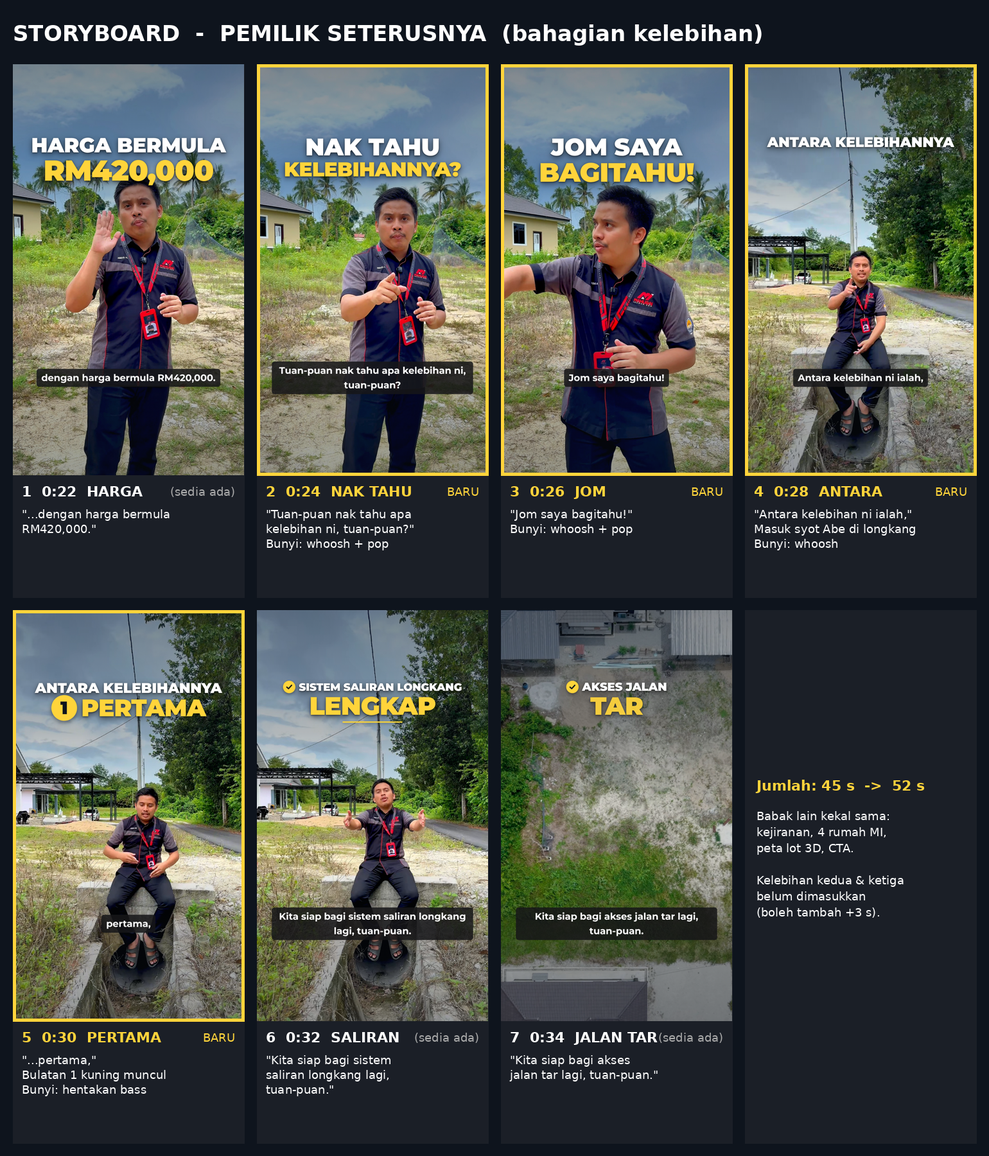
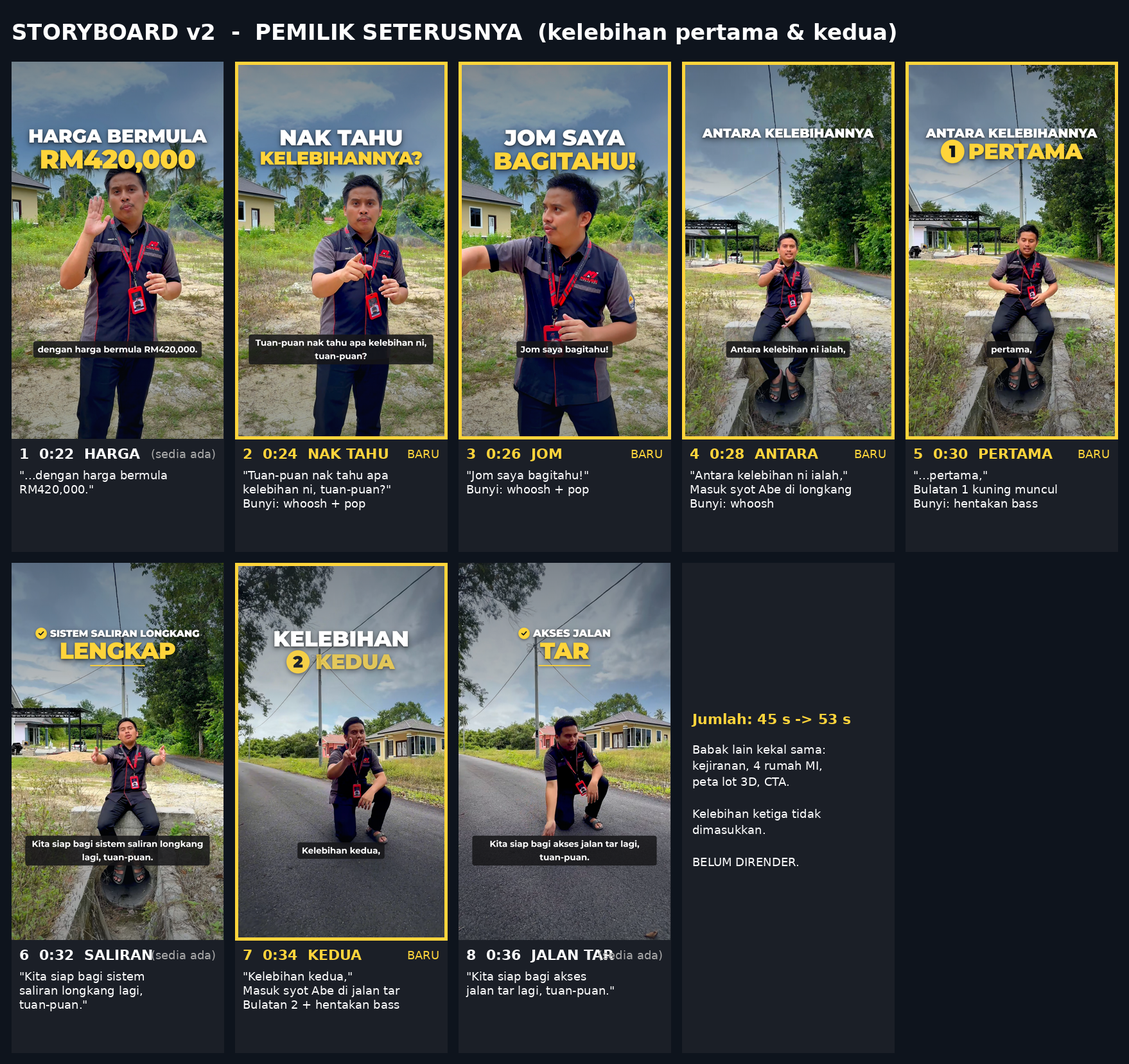
pemilik-seterusnya: draft adds 'kelebihan kedua'; storyboard v2 (not rendered)
Claude-Session: https://claude.ai/code/session_015oQrjsfk9qQfyKJ1FJDmB9

diff --git a/pemilik-seterusnya/compositions/gfx.html b/pemilik-seterusnya/compositions/gfx.html
@@ -28,8 +28,8 @@
       background: rgba(22,22,24,.86); padding: 8px 22px; border-radius: 12px; -webkit-box-decoration-break: clone; box-decoration-break: clone; }
     .cue b { color: #FFFFFF; font-weight: 700; }
   </style>
-  <div id="root" data-composition-id="gfx" data-width="1080" data-height="1920" data-duration="52.0">
-    <div class="clip scn3" id="s-end" data-start="46.72" data-duration="1.72">
+  <div id="root" data-composition-id="gfx" data-width="1080" data-height="1920" data-duration="53.38">
+    <div class="clip scn3" id="s-end" data-start="48.1" data-duration="1.72">
       <div class="tilt" id="e-tilt"><img src="assets/img/lot-top.jpg" alt="" />
         <svg class="lotsvg" viewBox="0 0 1080 1920" width="1080" height="1920"><polygon class="shadow" points="335,753 738,753 738,1148 335,1148" fill="#000" fill-opacity=".35"/></svg>
         <div class="extw" id="e-ext"><svg class="lotsvg" viewBox="0 0 1080 1920" width="1080" height="1920" style="transform: translateZ(4px)"><polygon points="335,753 738,753 738,1148 335,1148" fill="#FFD43B" fill-opacity="0.07" stroke="#FFD43B" stroke-opacity="0.35" stroke-width="2"/></svg><svg class="lotsvg" viewBox="0 0 1080 1920" width="1080" height="1920" style="transform: translateZ(9px)"><polygon points="335,753 738,753 738,1148 335,1148" fill="#FFD43B" fill-opacity="0.07" stroke="#FFD43B" stroke-opacity="0.35" stroke-width="2"/></svg><svg class="lotsvg" viewBox="0 0 1080 1920" width="1080" height="1920" style="transform: translateZ(14px)"><polygon points="335,753 738,753 738,1148 335,1148" fill="#FFD43B" fill-opacity="0.07" stroke="#FFD43B" stroke-opacity="0.35" stroke-width="2"/></svg><svg class="lotsvg" viewBox="0 0 1080 1920" width="1080" height="1920" style="transform: translateZ(19px)"><polygon points="335,753 738,753 738,1148 335,1148" fill="#FFD43B" fill-opacity="0.07" stroke="#FFD43B" stroke-opacity="0.35" stroke-width="2"/></svg><svg class="lotsvg" viewBox="0 0 1080 1920" width="1080" height="1920" style="transform: translateZ(24px)"><polygon points="335,753 738,753 738,1148 335,1148" fill="#FFD43B" fill-opacity="0.07" stroke="#FFD43B" stroke-opacity="0.35" stroke-width="2"/></svg><svg class="lotsvg" viewBox="0 0 1080 1920" width="1080" height="1920" style="transform: translateZ(29px)"><polygon points="335,753 738,753 738,1148 335,1148" fill="#FFD43B" fill-opacity="0.07" stroke="#FFD43B" stroke-opacity="0.35" stroke-width="2"/></svg></div>
@@ -61,12 +61,15 @@
     <div class="grp clip" id="g4e" data-start="27.77" data-duration="3.87" style="top:330px">
       <div class="hw" id="g4e-w" style="font-size:66px">ANTARA KELEBIHANNYA</div>
       <div class="numw"><div class="num" id="g4e-n">1</div><div class="hy" id="g4e-y" style="font-size:112px">PERTAMA</div></div></div>
+    <div class="grp clip" id="g4f" data-start="34.06" data-duration="1.28" style="top:330px">
+      <div class="hw" id="g4f-w" style="font-size:112px">KELEBIHAN</div>
+      <div class="numw"><div class="num" id="g4f-n">2</div><div class="hy" id="g4f-y" style="font-size:112px">KEDUA</div></div></div>
     <div class="grp clip" id="g5a" data-start="31.71" data-duration="1.83" style="top:330px"><div class="ckh"><div class="ckb" id="g5a-c"><svg viewBox="0 0 24 24" width="38" height="38" fill="none" stroke="#0E141D" stroke-width="3.6" stroke-linecap="round" stroke-linejoin="round"><path class="ck" d="M5 12.5 10 17 19 7"/></svg></div><div class="hw" id="g5a-w" style="font-size:50px">SISTEM SALIRAN LONGKANG</div></div><div class="hy" id="g5a-y" style="font-size:118px">LENGKAP</div><div class="rule" id="g5a-r"></div></div>
-    <div class="grp clip" id="g5b" data-start="34.76" data-duration="1.7" style="top:330px"><div class="ckh"><div class="ckb" id="g5b-c"><svg viewBox="0 0 24 24" width="38" height="38" fill="none" stroke="#0E141D" stroke-width="3.6" stroke-linecap="round" stroke-linejoin="round"><path class="ck" d="M5 12.5 10 17 19 7"/></svg></div><div class="hw" id="g5b-w" style="font-size:54px">AKSES JALAN</div></div><div class="hy" id="g5b-y" style="font-size:118px">TAR</div><div class="rule" id="g5b-r"></div></div>
-    <div class="grp clip" id="g6" data-start="37.46" data-duration="1.3" style="top:330px"><div class="hw" id="g6-w" style="font-size:112px">KEJIRANAN</div><div class="hy" id="g6-y" style="font-size:124px">SEDIA ADA</div></div>
-    <div class="grp clip" id="g6b" data-start="38.92" data-duration="4.44" style="top:330px"><div class="hw" id="g6b-w" style="font-size:66px">4 BUAH RUMAH DIBINA</div><div class="hy" id="g6b-y" style="font-size:81px">MAHLIGAI IDAMAN</div></div>
-    <div class="grp clip" id="g7" data-start="46.92" data-duration="1.52" style="top:330px"><div class="hw" id="g7-w" style="font-size:96px">ADAKAH ANDA</div><div class="hy" id="g7-y" style="font-size:64px">PEMILIK SETERUSNYA?</div></div>
-    <div class="grp clip" id="g8" data-start="48.5" data-duration="3.5" style="top:330px"><div class="hw" id="g8-w" style="font-size:112px">BERMINAT?</div><div class="hy" id="g8-y" style="font-size:76px">PM ABE SEKARANG!</div><div class="rule" id="g8r"></div></div>
+    <div class="grp clip" id="g5b" data-start="36.14" data-duration="1.7" style="top:330px"><div class="ckh"><div class="ckb" id="g5b-c"><svg viewBox="0 0 24 24" width="38" height="38" fill="none" stroke="#0E141D" stroke-width="3.6" stroke-linecap="round" stroke-linejoin="round"><path class="ck" d="M5 12.5 10 17 19 7"/></svg></div><div class="hw" id="g5b-w" style="font-size:54px">AKSES JALAN</div></div><div class="hy" id="g5b-y" style="font-size:118px">TAR</div><div class="rule" id="g5b-r"></div></div>
+    <div class="grp clip" id="g6" data-start="38.84" data-duration="1.3" style="top:330px"><div class="hw" id="g6-w" style="font-size:112px">KEJIRANAN</div><div class="hy" id="g6-y" style="font-size:124px">SEDIA ADA</div></div>
+    <div class="grp clip" id="g6b" data-start="40.3" data-duration="4.44" style="top:330px"><div class="hw" id="g6b-w" style="font-size:66px">4 BUAH RUMAH DIBINA</div><div class="hy" id="g6b-y" style="font-size:81px">MAHLIGAI IDAMAN</div></div>
+    <div class="grp clip" id="g7" data-start="48.3" data-duration="1.52" style="top:330px"><div class="hw" id="g7-w" style="font-size:96px">ADAKAH ANDA</div><div class="hy" id="g7-y" style="font-size:64px">PEMILIK SETERUSNYA?</div></div>
+    <div class="grp clip" id="g8" data-start="49.88" data-duration="3.5" style="top:330px"><div class="hw" id="g8-w" style="font-size:112px">BERMINAT?</div><div class="hy" id="g8-y" style="font-size:76px">PM ABE SEKARANG!</div><div class="rule" id="g8r"></div></div>
     <div class="subs" id="subs">
       <div class="cue clip" id="cue0" data-start="0.0" data-duration="2.86"><span>Tuan-puan, saya nak cari seorang je lagi <b>pembeli</b></span></div>
       <div class="cue clip" id="cue1" data-start="2.86" data-duration="2.69"><span>untuk bina rumah di atas tanah kita ni.</span></div>
@@ -80,14 +83,15 @@
       <div class="cue clip" id="cue9" data-start="25.94" data-duration="1.78"><span>Jom saya bagitahu!</span></div>
       <div class="cue clip" id="cue10" data-start="27.72" data-duration="2.0"><span>Antara kelebihan ni ialah,</span></div>
       <div class="cue clip" id="cue11" data-start="29.72" data-duration="1.24"><span><b>pertama</b>,</span></div>
-      <div class="cue clip" id="cue12" data-start="30.96" data-duration="2.98"><span>Kita siap bagi <b>sistem saliran longkang</b> lagi, tuan-puan.</span></div>
-      <div class="cue clip" id="cue13" data-start="33.94" data-duration="2.53"><span>Kita siap bagi <b>akses jalan tar</b> lagi, tuan-puan.</span></div>
-      <div class="cue clip" id="cue14" data-start="36.47" data-duration="2.29"><span>Tanah ni dah ada <b>kejiranan</b>, tuan-puan.</span></div>
-      <div class="cue clip" id="cue15" data-start="38.76" data-duration="2.34"><span>Keempat-empat bijik rumah ni, tuan-puan,</span></div>
-      <div class="cue clip" id="cue16" data-start="41.1" data-duration="2.23"><span>ialah hasil kerja <b>Mahligai Idaman</b>.</span></div>
-      <div class="cue clip" id="cue17" data-start="43.33" data-duration="3.61"><span>Jadi kami nak cari <b>sebijik lagi</b> untuk dibina dekat sini.</span></div>
-      <div class="cue clip" id="cue18" data-start="46.94" data-duration="1.51"><span>Adakah anda <b>pemiliknya</b>?</span></div>
-      <div class="cue clip" id="cue19" data-start="48.45" data-duration="3.55"><span>Siapa berminat, boleh <b>PM Abe sekarang</b>!</span></div>
+      <div class="cue clip" id="cue12" data-start="30.96" data-duration="3.12"><span>Kita siap bagi <b>sistem saliran longkang</b> lagi, tuan-puan.</span></div>
+      <div class="cue clip" id="cue13" data-start="34.08" data-duration="1.24"><span>Kelebihan <b>kedua</b>,</span></div>
+      <div class="cue clip" id="cue14" data-start="35.32" data-duration="2.53"><span>Kita siap bagi <b>akses jalan tar</b> lagi, tuan-puan.</span></div>
+      <div class="cue clip" id="cue15" data-start="37.85" data-duration="2.29"><span>Tanah ni dah ada <b>kejiranan</b>, tuan-puan.</span></div>
+      <div class="cue clip" id="cue16" data-start="40.14" data-duration="2.34"><span>Keempat-empat bijik rumah ni, tuan-puan,</span></div>
+      <div class="cue clip" id="cue17" data-start="42.48" data-duration="2.23"><span>ialah hasil kerja <b>Mahligai Idaman</b>.</span></div>
+      <div class="cue clip" id="cue18" data-start="44.71" data-duration="3.61"><span>Jadi kami nak cari <b>sebijik lagi</b> untuk dibina dekat sini.</span></div>
+      <div class="cue clip" id="cue19" data-start="48.32" data-duration="1.51"><span>Adakah anda <b>pemiliknya</b>?</span></div>
+      <div class="cue clip" id="cue20" data-start="49.83" data-duration="3.55"><span>Siapa berminat, boleh <b>PM Abe sekarang</b>!</span></div>
     </div>
   </div>
   <script>
@@ -142,6 +146,12 @@
     tl.fromTo("#g4e-n", { opacity: 0, scale: 0.86 }, { opacity: 1, y: 0, scale: 1, duration: 0.45, ease: "power3.out" }, 29.77);
     tl.fromTo("#g4e-y", { opacity: 0, scale: 0.86 }, { opacity: 1, y: 0, scale: 1, duration: 0.5, ease: "power3.out" }, 29.84);
     tl.to("#g4e", { opacity: 0, y: -14, duration: 0.25, ease: "power2.in" }, 31.39);
+    tl.fromTo("#g4f-w", { opacity: 0, y: 28 }, { opacity: 1, y: 0, scale: 1, duration: 0.5, ease: "power3.out" }, 34.06);
+    tl.set("#g4f-n", { opacity: 0 }, 0);
+    tl.set("#g4f-y", { opacity: 0 }, 0);
+    tl.fromTo("#g4f-n", { opacity: 0, scale: 0.86 }, { opacity: 1, y: 0, scale: 1, duration: 0.4, ease: "power3.out" }, 34.78);
+    tl.fromTo("#g4f-y", { opacity: 0, scale: 0.86 }, { opacity: 1, y: 0, scale: 1, duration: 0.4, ease: "power3.out" }, 34.84);
+    tl.to("#g4f", { opacity: 0, y: -14, duration: 0.2, ease: "power2.in" }, 35.14);
     tl.fromTo("#g5a-w", { opacity: 0, y: 28 }, { opacity: 1, y: 0, scale: 1, duration: 0.5, ease: "power3.out" }, 31.71);
     tl.fromTo("#g5a-c", { opacity: 0, scale: 0.86 }, { opacity: 1, y: 0, scale: 1, duration: 0.4, ease: "power3.out" }, 31.71);
     tl.fromTo("#g5a-c .ck", { strokeDasharray: 30, strokeDashoffset: 30 }, { strokeDashoffset: 0, duration: 0.35 }, 31.86);
@@ -149,32 +159,32 @@
     tl.fromTo("#g5a-y", { opacity: 0, scale: 0.86 }, { opacity: 1, y: 0, scale: 1, duration: 0.5, ease: "power3.out" }, 31.91);
     tl.fromTo("#g5a-r", { scaleX: 0 }, { scaleX: 1, duration: 0.4, ease: "power3.out" }, 32.160000000000004);
     tl.to("#g5a", { opacity: 0, y: -14, duration: 0.22, ease: "power2.in" }, 33.32);
-    tl.fromTo("#g5b-w", { opacity: 0, y: 28 }, { opacity: 1, y: 0, scale: 1, duration: 0.5, ease: "power3.out" }, 34.76);
-    tl.fromTo("#g5b-c", { opacity: 0, scale: 0.86 }, { opacity: 1, y: 0, scale: 1, duration: 0.4, ease: "power3.out" }, 34.76);
-    tl.fromTo("#g5b-c .ck", { strokeDasharray: 30, strokeDashoffset: 30 }, { strokeDashoffset: 0, duration: 0.35 }, 34.91);
+    tl.fromTo("#g5b-w", { opacity: 0, y: 28 }, { opacity: 1, y: 0, scale: 1, duration: 0.5, ease: "power3.out" }, 36.14);
+    tl.fromTo("#g5b-c", { opacity: 0, scale: 0.86 }, { opacity: 1, y: 0, scale: 1, duration: 0.4, ease: "power3.out" }, 36.14);
+    tl.fromTo("#g5b-c .ck", { strokeDasharray: 30, strokeDashoffset: 30 }, { strokeDashoffset: 0, duration: 0.35 }, 36.29);
     tl.set("#g5b-y", { opacity: 0 }, 0);
-    tl.fromTo("#g5b-y", { opacity: 0, scale: 0.86 }, { opacity: 1, y: 0, scale: 1, duration: 0.5, ease: "power3.out" }, 34.96);
-    tl.fromTo("#g5b-r", { scaleX: 0 }, { scaleX: 1, duration: 0.4, ease: "power3.out" }, 35.21);
-    tl.to("#g5b", { opacity: 0, y: -14, duration: 0.22, ease: "power2.in" }, 36.24);
-    tl.fromTo("#g6-w", { opacity: 0, y: 28 }, { opacity: 1, y: 0, scale: 1, duration: 0.5, ease: "power3.out" }, 37.46);
+    tl.fromTo("#g5b-y", { opacity: 0, scale: 0.86 }, { opacity: 1, y: 0, scale: 1, duration: 0.5, ease: "power3.out" }, 36.34);
+    tl.fromTo("#g5b-r", { scaleX: 0 }, { scaleX: 1, duration: 0.4, ease: "power3.out" }, 36.59);
+    tl.to("#g5b", { opacity: 0, y: -14, duration: 0.22, ease: "power2.in" }, 37.62);
+    tl.fromTo("#g6-w", { opacity: 0, y: 28 }, { opacity: 1, y: 0, scale: 1, duration: 0.5, ease: "power3.out" }, 38.84);
     tl.set("#g6-y", { opacity: 0 }, 0);
-    tl.fromTo("#g6-y", { opacity: 0, scale: 0.86 }, { opacity: 1, y: 0, scale: 1, duration: 0.5, ease: "power3.out" }, 37.66);
-    tl.to("#g6", { opacity: 0, y: -14, duration: 0.25, ease: "power2.in" }, 38.51);
-    tl.fromTo("#g6b-w", { opacity: 0, y: 28 }, { opacity: 1, y: 0, scale: 1, duration: 0.5, ease: "power3.out" }, 38.92);
+    tl.fromTo("#g6-y", { opacity: 0, scale: 0.86 }, { opacity: 1, y: 0, scale: 1, duration: 0.5, ease: "power3.out" }, 39.04);
+    tl.to("#g6", { opacity: 0, y: -14, duration: 0.25, ease: "power2.in" }, 39.89);
+    tl.fromTo("#g6b-w", { opacity: 0, y: 28 }, { opacity: 1, y: 0, scale: 1, duration: 0.5, ease: "power3.out" }, 40.3);
     tl.set("#g6b-y", { opacity: 0 }, 0);
-    tl.fromTo("#g6b-y", { opacity: 0, scale: 0.86 }, { opacity: 1, y: 0, scale: 1, duration: 0.5, ease: "power3.out" }, 39.12);
-    tl.to("#g6b", { opacity: 0, y: -14, duration: 0.25, ease: "power2.in" }, 43.11);
-    tl.fromTo("#s-end", { opacity: 0 }, { opacity: 1, duration: 0.3 }, 46.72);
-    tl.fromTo("#e-tilt", { rotationX: 46, rotationZ: -4, scale: 1.3, y: -60 }, { rotationX: 46, rotationZ: 3, scale: 1.4, y: -80, duration: 1.72, ease: "sine.inOut" }, 46.72);
-    tl.fromTo("#g7-w", { opacity: 0, y: 28 }, { opacity: 1, y: 0, scale: 1, duration: 0.5, ease: "power3.out" }, 46.92);
+    tl.fromTo("#g6b-y", { opacity: 0, scale: 0.86 }, { opacity: 1, y: 0, scale: 1, duration: 0.5, ease: "power3.out" }, 40.5);
+    tl.to("#g6b", { opacity: 0, y: -14, duration: 0.25, ease: "power2.in" }, 44.49);
+    tl.fromTo("#s-end", { opacity: 0 }, { opacity: 1, duration: 0.3 }, 48.1);
+    tl.fromTo("#e-tilt", { rotationX: 46, rotationZ: -4, scale: 1.3, y: -60 }, { rotationX: 46, rotationZ: 3, scale: 1.4, y: -80, duration: 1.72, ease: "sine.inOut" }, 48.1);
+    tl.fromTo("#g7-w", { opacity: 0, y: 28 }, { opacity: 1, y: 0, scale: 1, duration: 0.5, ease: "power3.out" }, 48.3);
     tl.set("#g7-y", { opacity: 0 }, 0);
-    tl.fromTo("#g7-y", { opacity: 0, scale: 0.86 }, { opacity: 1, y: 0, scale: 1, duration: 0.5, ease: "power3.out" }, 47.12);
-    tl.to("#g7", { opacity: 0, y: -14, duration: 0.25, ease: "power2.in" }, 48.19);
-    tl.fromTo("#g8-w", { opacity: 0, y: 28 }, { opacity: 1, y: 0, scale: 1, duration: 0.5, ease: "power3.out" }, 48.5);
+    tl.fromTo("#g7-y", { opacity: 0, scale: 0.86 }, { opacity: 1, y: 0, scale: 1, duration: 0.5, ease: "power3.out" }, 48.5);
+    tl.to("#g7", { opacity: 0, y: -14, duration: 0.25, ease: "power2.in" }, 49.57);
+    tl.fromTo("#g8-w", { opacity: 0, y: 28 }, { opacity: 1, y: 0, scale: 1, duration: 0.5, ease: "power3.out" }, 49.88);
     tl.set("#g8-y", { opacity: 0 }, 0);
-    tl.fromTo("#g8-y", { opacity: 0, scale: 0.86 }, { opacity: 1, y: 0, scale: 1, duration: 0.5, ease: "power3.out" }, 48.7);
-    tl.to("#g8", { opacity: 0, y: -14, duration: 0.25, ease: "power2.in" }, 51.75);
-    tl.fromTo("#g8r", { scaleX: 0 }, { scaleX: 1, duration: 0.45, ease: "power3.out" }, 49.82);
+    tl.fromTo("#g8-y", { opacity: 0, scale: 0.86 }, { opacity: 1, y: 0, scale: 1, duration: 0.5, ease: "power3.out" }, 50.08);
+    tl.to("#g8", { opacity: 0, y: -14, duration: 0.25, ease: "power2.in" }, 53.13);
+    tl.fromTo("#g8r", { scaleX: 0 }, { scaleX: 1, duration: 0.45, ease: "power3.out" }, 51.2);
     tl.fromTo("#cue0 span", { opacity: 0, y: 8 }, { opacity: 1, y: 0, duration: 0.15, ease: "power2.out" }, 0.0);
     tl.fromTo("#cue1 span", { opacity: 0, y: 8 }, { opacity: 1, y: 0, duration: 0.15, ease: "power2.out" }, 2.86);
     tl.fromTo("#cue2 span", { opacity: 0, y: 8 }, { opacity: 1, y: 0, duration: 0.15, ease: "power2.out" }, 5.55);
@@ -188,13 +198,14 @@
     tl.fromTo("#cue10 span", { opacity: 0, y: 8 }, { opacity: 1, y: 0, duration: 0.15, ease: "power2.out" }, 27.72);
     tl.fromTo("#cue11 span", { opacity: 0, y: 8 }, { opacity: 1, y: 0, duration: 0.15, ease: "power2.out" }, 29.72);
     tl.fromTo("#cue12 span", { opacity: 0, y: 8 }, { opacity: 1, y: 0, duration: 0.15, ease: "power2.out" }, 30.96);
-    tl.fromTo("#cue13 span", { opacity: 0, y: 8 }, { opacity: 1, y: 0, duration: 0.15, ease: "power2.out" }, 33.94);
-    tl.fromTo("#cue14 span", { opacity: 0, y: 8 }, { opacity: 1, y: 0, duration: 0.15, ease: "power2.out" }, 36.47);
-    tl.fromTo("#cue15 span", { opacity: 0, y: 8 }, { opacity: 1, y: 0, duration: 0.15, ease: "power2.out" }, 38.76);
-    tl.fromTo("#cue16 span", { opacity: 0, y: 8 }, { opacity: 1, y: 0, duration: 0.15, ease: "power2.out" }, 41.1);
-    tl.fromTo("#cue17 span", { opacity: 0, y: 8 }, { opacity: 1, y: 0, duration: 0.15, ease: "power2.out" }, 43.33);
-    tl.fromTo("#cue18 span", { opacity: 0, y: 8 }, { opacity: 1, y: 0, duration: 0.15, ease: "power2.out" }, 46.94);
-    tl.fromTo("#cue19 span", { opacity: 0, y: 8 }, { opacity: 1, y: 0, duration: 0.15, ease: "power2.out" }, 48.45);
+    tl.fromTo("#cue13 span", { opacity: 0, y: 8 }, { opacity: 1, y: 0, duration: 0.15, ease: "power2.out" }, 34.08);
+    tl.fromTo("#cue14 span", { opacity: 0, y: 8 }, { opacity: 1, y: 0, duration: 0.15, ease: "power2.out" }, 35.32);
+    tl.fromTo("#cue15 span", { opacity: 0, y: 8 }, { opacity: 1, y: 0, duration: 0.15, ease: "power2.out" }, 37.85);
+    tl.fromTo("#cue16 span", { opacity: 0, y: 8 }, { opacity: 1, y: 0, duration: 0.15, ease: "power2.out" }, 40.14);
+    tl.fromTo("#cue17 span", { opacity: 0, y: 8 }, { opacity: 1, y: 0, duration: 0.15, ease: "power2.out" }, 42.48);
+    tl.fromTo("#cue18 span", { opacity: 0, y: 8 }, { opacity: 1, y: 0, duration: 0.15, ease: "power2.out" }, 44.71);
+    tl.fromTo("#cue19 span", { opacity: 0, y: 8 }, { opacity: 1, y: 0, duration: 0.15, ease: "power2.out" }, 48.32);
+    tl.fromTo("#cue20 span", { opacity: 0, y: 8 }, { opacity: 1, y: 0, duration: 0.15, ease: "power2.out" }, 49.83);
     window.__timelines["gfx"] = tl;
   </script>
 </template>

diff --git a/pemilik-seterusnya/index.html b/pemilik-seterusnya/index.html
@@ -16,25 +16,24 @@
     </style>
   </head>
   <body>
-    <div id="root" data-composition-id="main" data-start="0" data-duration="52.0" data-width="1080" data-height="1920">
+    <div id="root" data-composition-id="main" data-start="0" data-duration="53.38" data-width="1080" data-height="1920">
       <div id="w-tal">
       <video id="v0" class="clip full" src="assets/video/talent.mp4" data-start="0.0" data-duration="5.54" data-media-start="0.08" data-track-index="1" playsinline data-has-audio="true" data-volume="1" data-fade-in="0.03" data-fade-out="0.03"></video>
       <video id="v1" class="clip full" src="assets/video/talent.mp4" data-start="5.54" data-duration="3.72" data-media-start="6.4" data-track-index="1" playsinline data-has-audio="true" data-volume="1" data-fade-in="0.03" data-fade-out="0.03"></video>
       <video id="v2" class="clip full" src="assets/video/talent.mp4" data-start="9.26" data-duration="5.8" data-media-start="17.6" data-track-index="1" playsinline data-has-audio="true" data-volume="1" data-fade-in="0.03" data-fade-out="0.03"></video>
-      <video id="v3" class="clip full" src="assets/video/talent.mp4" data-start="15.06" data-duration="18.88" data-media-start="23.62" data-track-index="1" playsinline data-has-audio="true" data-volume="1" data-fade-in="0.03" data-fade-out="0.03"></video>
-      <video id="v4" class="clip full" src="assets/video/talent.mp4" data-start="33.94" data-duration="2.52" data-media-start="43.88" data-track-index="1" playsinline data-has-audio="true" data-volume="1" data-fade-in="0.03" data-fade-out="0.03"></video>
-      <video id="v5" class="clip full" src="assets/video/talent.mp4" data-start="36.46" data-duration="2.3" data-media-start="48.82" data-track-index="1" playsinline data-has-audio="true" data-volume="1" data-fade-in="0.03" data-fade-out="0.03"></video>
-      <video id="v6" class="clip full" src="assets/video/talent.mp4" data-start="38.76" data-duration="13.24" data-media-start="54.44" data-track-index="1" playsinline data-has-audio="true" data-volume="1" data-fade-in="0.03" data-fade-out="0.03"></video>
+      <video id="v3" class="clip full" src="assets/video/talent.mp4" data-start="15.06" data-duration="22.78" data-media-start="23.62" data-track-index="1" playsinline data-has-audio="true" data-volume="1" data-fade-in="0.03" data-fade-out="0.03"></video>
+      <video id="v4" class="clip full" src="assets/video/talent.mp4" data-start="37.84" data-duration="2.3" data-media-start="48.82" data-track-index="1" playsinline data-has-audio="true" data-volume="1" data-fade-in="0.03" data-fade-out="0.03"></video>
+      <video id="v5" class="clip full" src="assets/video/talent.mp4" data-start="40.14" data-duration="13.24" data-media-start="54.44" data-track-index="1" playsinline data-has-audio="true" data-volume="1" data-fade-in="0.03" data-fade-out="0.03"></video>
       </div>
       <div id="b-loc-w" class="bw"><video id="b-loc" class="clip full" src="assets/video/aerial-C51AA0CC.mp4" data-start="5.54" data-duration="3.72" data-media-start="0.8" data-track-index="2" muted playsinline></video></div>
       <div id="b-size-w" class="bw"><video id="b-size" class="clip full" src="assets/video/drone-0169.mp4" data-start="15.06" data-duration="4.98" data-media-start="0.5" data-track-index="2" muted playsinline></video></div>
-      <div id="b-drain-w" class="bw"><video id="b-drain" class="clip full" src="assets/video/aerial-B3AF3D5D.mp4" data-start="33.94" data-duration="1.32" data-media-start="0.3" data-track-index="2" muted playsinline></video></div>
-      <div id="b-nb-w" class="bw"><video id="b-nb" class="clip full" src="assets/video/aerial-D9D2F1E2.mp4" data-start="36.46" data-duration="2.3" data-media-start="0.0" data-track-index="2" muted playsinline></video></div>
-      <div id="b-mi1-w" class="bw"><video id="b-mi1" class="clip full" src="assets/video/aerial-BB0FB1E8.mp4" data-start="38.76" data-duration="2.36" data-media-start="0.8" data-track-index="2" muted playsinline></video></div>
-      <div id="b-mi2-w" class="bw"><video id="b-mi2" class="clip full" src="assets/video/aerial-5899E7BB.mp4" data-start="41.12" data-duration="2.24" data-media-start="0.6" data-track-index="2" muted playsinline></video></div>
+      <div id="b-drain-w" class="bw"><video id="b-drain" class="clip full" src="assets/video/aerial-B3AF3D5D.mp4" data-start="35.32" data-duration="1.32" data-media-start="0.3" data-track-index="2" muted playsinline></video></div>
+      <div id="b-nb-w" class="bw"><video id="b-nb" class="clip full" src="assets/video/aerial-D9D2F1E2.mp4" data-start="37.84" data-duration="2.3" data-media-start="0.0" data-track-index="2" muted playsinline></video></div>
+      <div id="b-mi1-w" class="bw"><video id="b-mi1" class="clip full" src="assets/video/aerial-BB0FB1E8.mp4" data-start="40.14" data-duration="2.36" data-media-start="0.8" data-track-index="2" muted playsinline></video></div>
+      <div id="b-mi2-w" class="bw"><video id="b-mi2" class="clip full" src="assets/video/aerial-5899E7BB.mp4" data-start="42.5" data-duration="2.24" data-media-start="0.6" data-track-index="2" muted playsinline></video></div>
       <div id="shade"></div>
-      <div id="gfx" data-composition-id="gfx" data-composition-src="compositions/gfx.html" data-start="0" data-duration="52.0" data-track-index="3" data-track-kind="graphics" data-width="1080" data-height="1920" style="z-index:5"></div>
-      <audio id="bgm" class="clip" src="assets/bgm/track.mp3" data-start="0" data-duration="52.0" data-track-index="4" data-volume="0.09" data-fade-out="1.5"></audio>
+      <div id="gfx" data-composition-id="gfx" data-composition-src="compositions/gfx.html" data-start="0" data-duration="53.38" data-track-index="3" data-track-kind="graphics" data-width="1080" data-height="1920" style="z-index:5"></div>
+      <audio id="bgm" class="clip" src="assets/bgm/track.mp3" data-start="0" data-duration="53.38" data-track-index="4" data-volume="0.09" data-fade-out="1.5"></audio>
       <audio id="sx-hook" class="clip" src="assets/sfx/impact-bass-1.mp3" data-start="0.77" data-duration="1.6" data-track-index="6" data-volume="0.2"></audio>
       <audio id="sx-hookw" class="clip" src="assets/sfx/whoosh-short.mp3" data-start="0.67" data-duration="0.57" data-track-index="7" data-volume="0.16"></audio>
       <audio id="sx-sub" class="clip" src="assets/sfx/click-soft.mp3" data-start="2.32" data-duration="0.36" data-track-index="5" data-volume="0.18"></audio>
@@ -56,34 +55,36 @@
       <audio id="sx-drain" class="clip" src="assets/sfx/whoosh-short.mp3" data-start="30.92" data-duration="0.57" data-track-index="6" data-volume="0.15"></audio>
       <audio id="sx-ck1" class="clip" src="assets/sfx/click.mp3" data-start="31.74" data-duration="0.36" data-track-index="7" data-volume="0.22"></audio>
       <audio id="sx-cut1" class="clip" src="assets/sfx/whoosh.mp3" data-start="33.74" data-duration="0.57" data-track-index="5" data-volume="0.2"></audio>
-      <audio id="sx-rd" class="clip" src="assets/sfx/whoosh-short.mp3" data-start="33.94" data-duration="0.57" data-track-index="6" data-volume="0.14"></audio>
-      <audio id="sx-ck2" class="clip" src="assets/sfx/click.mp3" data-start="34.81" data-duration="0.36" data-track-index="7" data-volume="0.22"></audio>
-      <audio id="sx-nb" class="clip" src="assets/sfx/whoosh-short.mp3" data-start="36.46" data-duration="0.57" data-track-index="5" data-volume="0.15"></audio>
-      <audio id="sx-nbp" class="clip" src="assets/sfx/pop.mp3" data-start="37.49" data-duration="0.72" data-track-index="6" data-volume="0.16"></audio>
-      <audio id="sx-mi" class="clip" src="assets/sfx/whoosh-short.mp3" data-start="38.76" data-duration="0.57" data-track-index="7" data-volume="0.14"></audio>
-      <audio id="sx-mip" class="clip" src="assets/sfx/pop.mp3" data-start="39.02" data-duration="0.72" data-track-index="5" data-volume="0.15"></audio>
-      <audio id="sx-mi2" class="clip" src="assets/sfx/whoosh-short.mp3" data-start="41.1" data-duration="0.57" data-track-index="6" data-volume="0.13"></audio>
-      <audio id="sx-riser" class="clip" src="assets/sfx/riser.mp3" data-start="44.32" data-duration="2.6" data-track-index="7" data-volume="0.12"></audio>
-      <audio id="sx-q" class="clip" src="assets/sfx/impact-bass-2.mp3" data-start="46.99" data-duration="2.0" data-track-index="5" data-volume="0.17"></audio>
-      <audio id="sx-cta" class="clip" src="assets/sfx/pop.mp3" data-start="49.22" data-duration="0.72" data-track-index="6" data-volume="0.18"></audio>
-      <audio id="sx-cta2" class="clip" src="assets/sfx/impact-bass-1.mp3" data-start="49.63" data-duration="1.6" data-track-index="7" data-volume="0.18"></audio>
+      <audio id="sx-dua" class="clip" src="assets/sfx/whoosh-short.mp3" data-start="34.06" data-duration="0.57" data-track-index="6" data-volume="0.15"></audio>
+      <audio id="sx-two" class="clip" src="assets/sfx/impact-bass-1.mp3" data-start="34.78" data-duration="1.6" data-track-index="7" data-volume="0.2"></audio>
+      <audio id="sx-rd" class="clip" src="assets/sfx/whoosh-short.mp3" data-start="35.3" data-duration="0.57" data-track-index="5" data-volume="0.14"></audio>
+      <audio id="sx-ck2" class="clip" src="assets/sfx/click.mp3" data-start="36.19" data-duration="0.36" data-track-index="6" data-volume="0.22"></audio>
+      <audio id="sx-nb" class="clip" src="assets/sfx/whoosh-short.mp3" data-start="37.84" data-duration="0.57" data-track-index="7" data-volume="0.15"></audio>
+      <audio id="sx-nbp" class="clip" src="assets/sfx/pop.mp3" data-start="38.87" data-duration="0.72" data-track-index="5" data-volume="0.16"></audio>
+      <audio id="sx-mi" class="clip" src="assets/sfx/whoosh-short.mp3" data-start="40.14" data-duration="0.57" data-track-index="6" data-volume="0.14"></audio>
+      <audio id="sx-mip" class="clip" src="assets/sfx/pop.mp3" data-start="40.4" data-duration="0.72" data-track-index="7" data-volume="0.15"></audio>
+      <audio id="sx-mi2" class="clip" src="assets/sfx/whoosh-short.mp3" data-start="42.48" data-duration="0.57" data-track-index="5" data-volume="0.13"></audio>
+      <audio id="sx-riser" class="clip" src="assets/sfx/riser.mp3" data-start="45.7" data-duration="2.6" data-track-index="6" data-volume="0.12"></audio>
+      <audio id="sx-q" class="clip" src="assets/sfx/impact-bass-2.mp3" data-start="48.37" data-duration="2.0" data-track-index="7" data-volume="0.17"></audio>
+      <audio id="sx-cta" class="clip" src="assets/sfx/pop.mp3" data-start="50.6" data-duration="0.72" data-track-index="5" data-volume="0.18"></audio>
+      <audio id="sx-cta2" class="clip" src="assets/sfx/impact-bass-1.mp3" data-start="51.01" data-duration="1.6" data-track-index="6" data-volume="0.18"></audio>
     </div>
     <script>
       const tl = gsap.timeline({ paused: true });
-      [["b-loc", 5.54, 9.26], ["b-size", 15.06, 20.04], ["b-drain", 33.94, 35.26], ["b-nb", 36.46, 38.76], ["b-mi1", 38.76, 41.12], ["b-mi2", 41.12, 43.36]].forEach(([id, s, e]) => {
+      [["b-loc", 5.54, 9.26], ["b-size", 15.06, 20.04], ["b-drain", 35.32, 36.64], ["b-nb", 37.84, 40.14], ["b-mi1", 40.14, 42.5], ["b-mi2", 42.5, 44.74]].forEach(([id, s, e]) => {
         tl.fromTo("#" + id + "-w", { opacity: 0 }, { opacity: 1, duration: 0.18, ease: "power1.out" }, s);
         tl.fromTo("#" + id, { scale: 1.0 }, { scale: 1.08, duration: e - s, ease: "none" }, s);
       });
       // talent segments alternate framing so the jump cuts read as camera moves
-      [[0, 0.0, 5.54], [1, 5.54, 3.72], [2, 9.26, 5.8], [3, 15.06, 18.88], [4, 33.94, 2.52], [5, 36.46, 2.3], [6, 38.76, 13.24]].forEach(([k, s, d]) => {
+      [[0, 0.0, 5.54], [1, 5.54, 3.72], [2, 9.26, 5.8], [3, 15.06, 22.78], [4, 37.84, 2.3], [5, 40.14, 13.24]].forEach(([k, s, d]) => {
         const z = k % 2 ? 1.07 : 1.0;
         tl.fromTo("#v" + k, { scale: z }, { scale: z + 0.03, duration: d, ease: "none" }, s);
       });
       tl.fromTo("#w-tal", { scale: 1.1 }, { scale: 1, duration: 0.6, ease: "expo.out" }, 0);
       tl.fromTo("#w-tal", { scale: 1 }, { scale: 1.08, duration: 0.25, ease: "power3.out" }, 21.83);
       tl.fromTo("#w-tal", { scale: 1.08 }, { scale: 1, duration: 0.5, ease: "power2.inOut", immediateRender: false }, 23.04);
-      tl.fromTo("#w-tal", { scale: 1 }, { scale: 1.08, duration: 2.5, ease: "sine.inOut", immediateRender: false }, 48.42);
-      tl.to("#root", { opacity: 0, duration: 0.35 }, 51.65);
+      tl.fromTo("#w-tal", { scale: 1 }, { scale: 1.08, duration: 2.5, ease: "sine.inOut", immediateRender: false }, 49.8);
+      tl.to("#root", { opacity: 0, duration: 0.35 }, 53.03);
       window.__timelines["main"] = tl;
     </script>
   </body>

diff --git a/pemilik-seterusnya/build.py b/pemilik-seterusnya/build.py
@@ -14,7 +14,7 @@ SAFE_TOP, SAFE_BOT = 288, 1574
 
 SEGS = [(0.08, 5.62), (6.40, 10.12), (17.60, 23.40), (23.62, 32.46), (39.50, 42.50),
         (43.88, 46.40), (48.82, 51.12), (54.44, 59.04), (59.04, 67.68)]
-SEGS = [SEGS[0], SEGS[1], SEGS[2], (23.62, 42.50), SEGS[5], SEGS[6], (54.44, 67.68)]   # 32.46-39.50 kept: 'nak tahu kelebihan ... pertama'
+SEGS = [SEGS[0], SEGS[1], SEGS[2], (23.62, 46.40), SEGS[6], (54.44, 67.68)]   # kept: 'nak tahu kelebihan ... pertama' and 'kelebihan kedua'
 starts, t = [], 0.0
 for a, b in SEGS:
     starts.append(round(t, 3)); t += b - a
@@ -68,6 +68,7 @@ for name, f, src, d, v in [
     ("ant", "whoosh", 36.28, 0.57, 0.15), ("one", "impact-bass-1", 38.33, 1.6, 0.2),
     ("drain", "whoosh-short", 39.48, 0.57, 0.15), ("ck1", "click", 40.30, 0.36, 0.22),
     ("cut1", "whoosh", 42.30, 0.57, 0.2),                          # hard cut drain -> road
+    ("dua", "whoosh-short", 42.62, 0.57, 0.15), ("two", "impact-bass-1", 43.34, 1.6, 0.2),
     ("rd", "whoosh-short", 43.86, 0.57, 0.14), ("ck2", "click", 44.75, 0.36, 0.22),
     ("nb", "whoosh-short", 48.80, 0.57, 0.15), ("nbp", "pop", 49.85, 0.72, 0.16),
     ("mi", "whoosh-short", 54.42, 0.57, 0.14), ("mip", "pop", 54.70, 0.72, 0.15), ("mi2", "whoosh-short", 56.78, 0.57, 0.13),
@@ -229,6 +230,15 @@ tin("#g4e-w", T(36.33)); hide("#g4e-n"); hide("#g4e-y")
 tin("#g4e-n", T(38.33), "scale", 0.45); tin("#g4e-y", T(38.40), "scale")
 J.append(f'tl.to("#g4e", {{ opacity: 0, y: -14, duration: 0.25, ease: "power2.in" }}, {round(T(40.20) - 0.25, 3)});')
 
+# 04c "kelebihan kedua" (on the road shot)
+BOXES.append(("g4f", 330, 330))
+H.append(f'''    <div class="grp clip" id="g4f" data-start="{T(42.62)}" data-duration="{round(T(43.90) - T(42.62), 3)}" style="top:330px">
+      <div class="hw" id="g4f-w" style="font-size:112px">KELEBIHAN</div>
+      <div class="numw"><div class="num" id="g4f-n">2</div><div class="hy" id="g4f-y" style="font-size:112px">KEDUA</div></div></div>''')
+tin("#g4f-w", T(42.62)); hide("#g4f-n"); hide("#g4f-y")
+tin("#g4f-n", T(43.34), "scale", 0.4); tin("#g4f-y", T(43.40), "scale", 0.4)
+J.append(f'tl.to("#g4f", {{ opacity: 0, y: -14, duration: 0.2, ease: "power2.in" }}, {round(T(43.90) - 0.2, 3)});')
+
 # 05 infrastructure (talent stands at the drain, then on the tar road)
 for gid, s, e, w, y in [("g5a", 40.27, 42.10, "SISTEM SALIRAN LONGKANG", "LENGKAP"), ("g5b", 44.70, 46.40, "AKSES JALAN", "TAR")]:
     BOXES.append((gid, 330, 230))
@@ -268,6 +278,7 @@ SUBS = [
     (36.33, "Antara kelebihan ni ialah,"),
     (38.33, "**pertama**,"),
     (39.57, "Kita siap bagi **sistem saliran longkang** lagi, tuan-puan."),
+    (42.69, "Kelebihan **kedua**,"),
     (43.93, "Kita siap bagi **akses jalan tar** lagi, tuan-puan."),
     (48.88, "Tanah ni dah ada **kejiranan**, tuan-puan."),
     (54.49, "Keempat-empat bijik rumah ni, tuan-puan,"),
